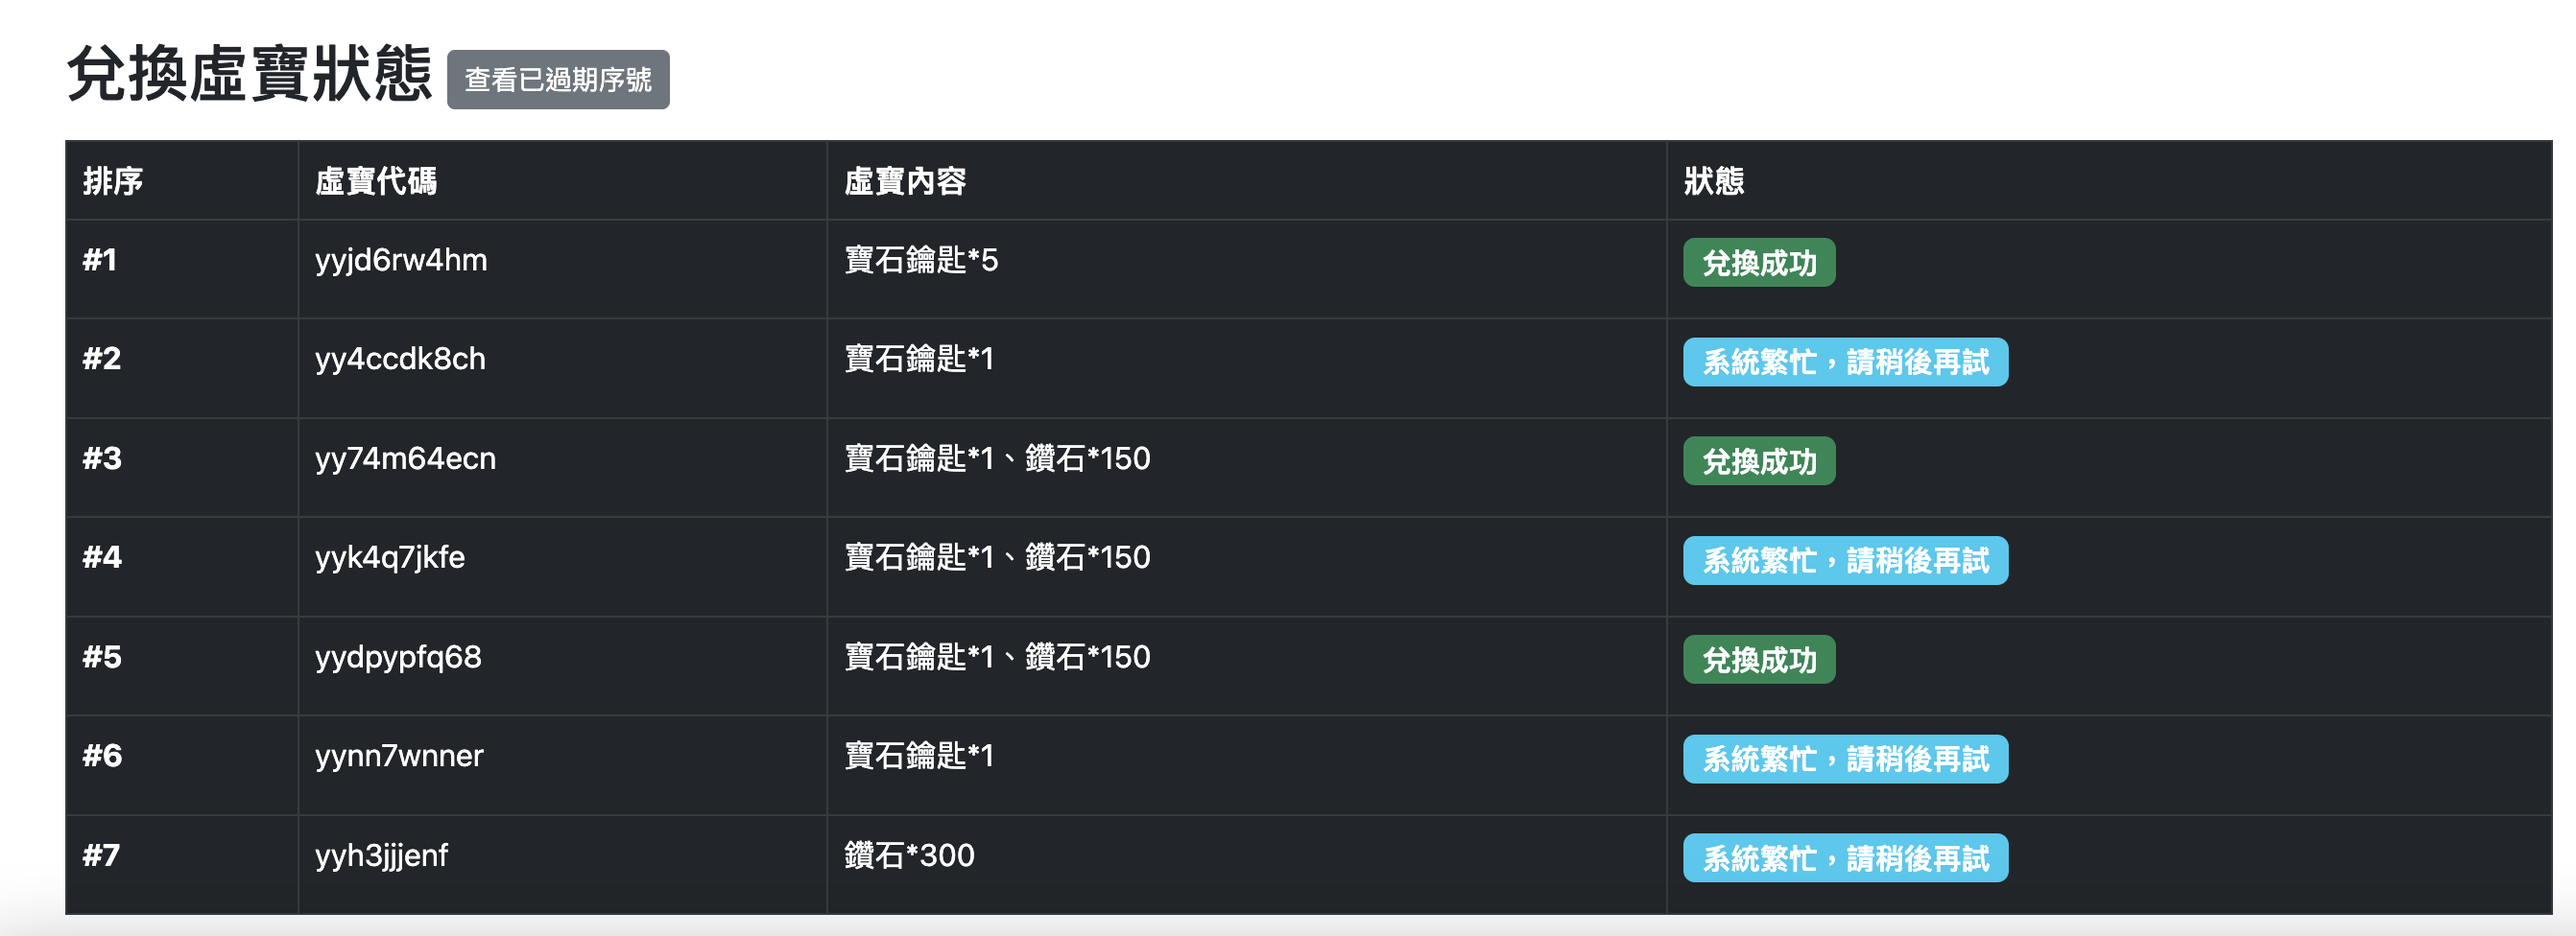
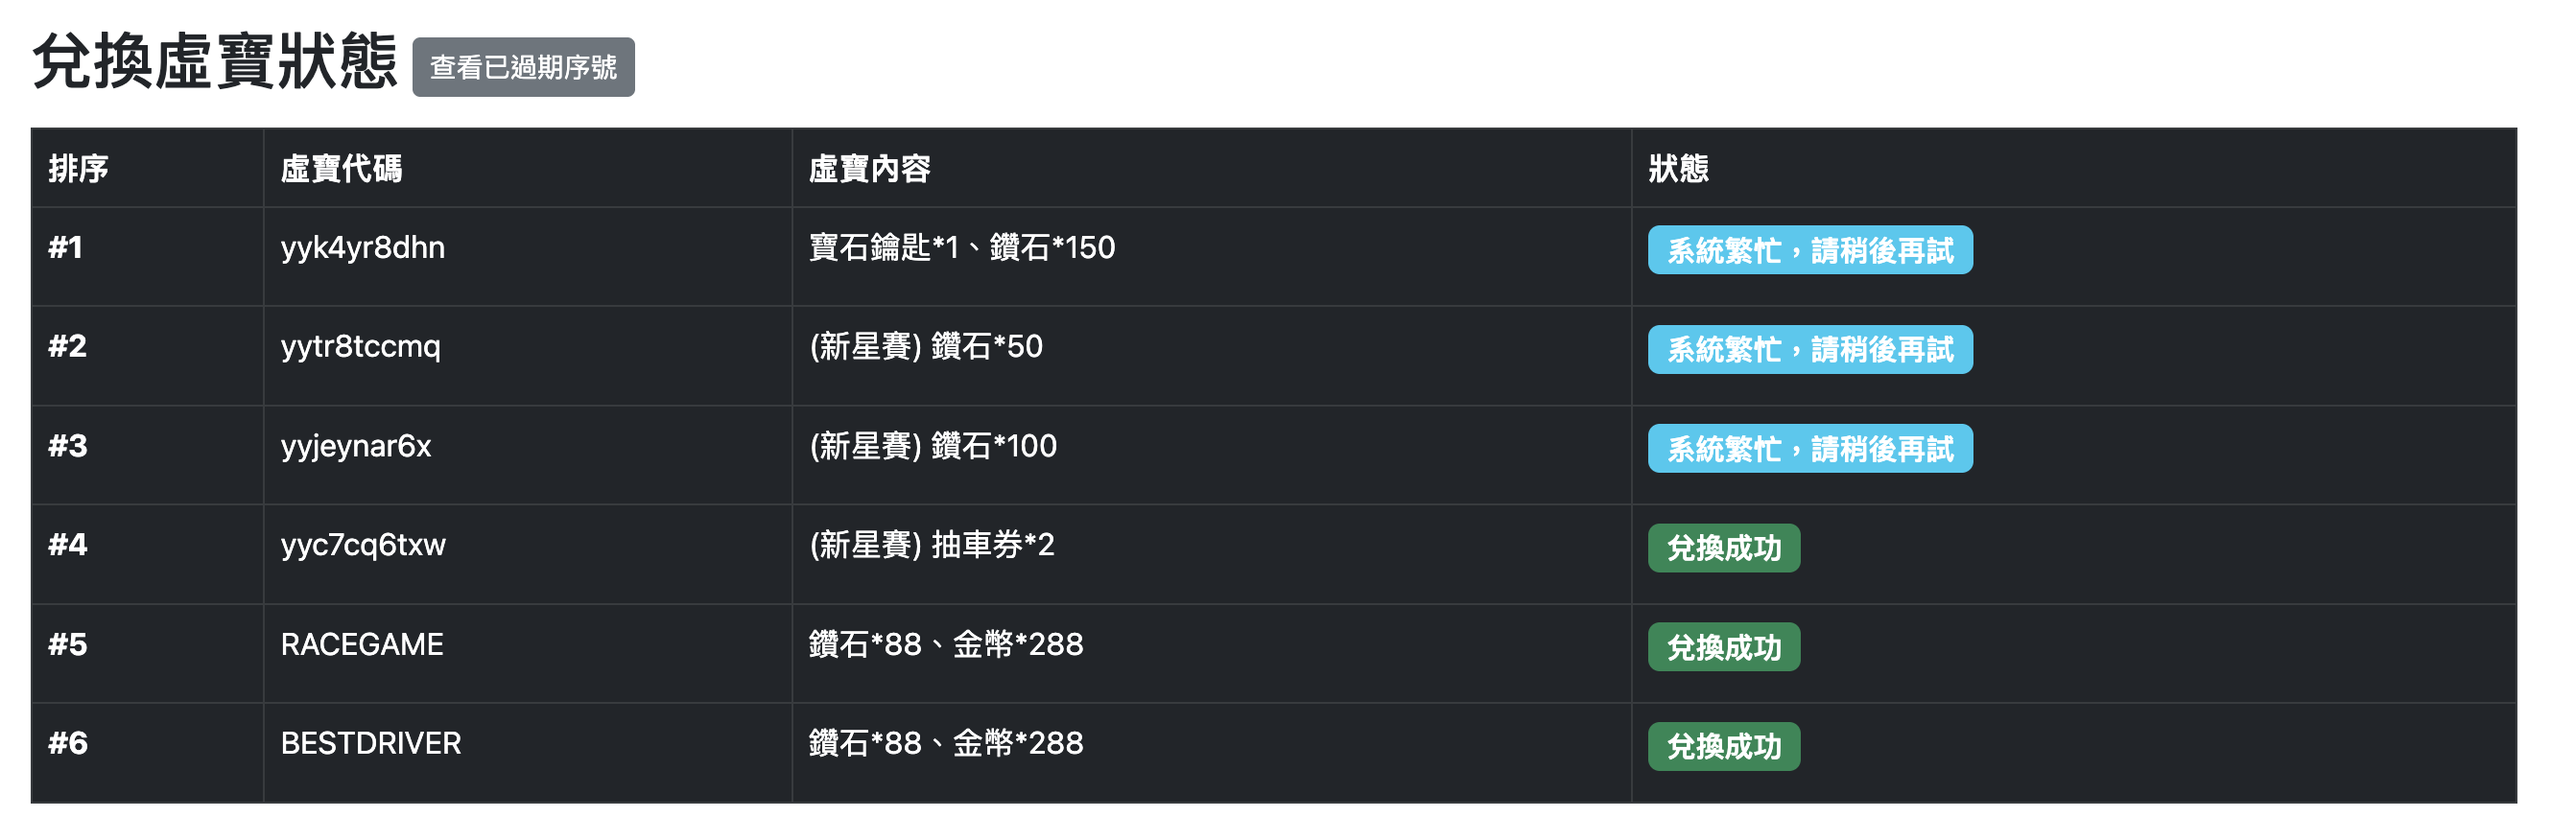
feat: 更新序號

diff --git a/src/redeem.php b/src/redeem.php
@@ -4,31 +4,21 @@ header('Content-Type: application/json');
 
 $uid = $_GET['uid'];
 $codes = array( //虛寶
-    "yyjd6rw4hm",
-    "yy4ccdk8ch",
-    "yy74m64ecn",
-    "yyk4q7jkfe",
-    "yydpypfq68",
-    "yynn7wnner",
-    "yyh3jjjenf",
     "yyk4yr8dhn",
     "yytr8tccmq",
     "yyjeynar6x",
-    "yyc7cq6txw"
+    "yyc7cq6txw",
+    "RACEGAME",
+    "BESTDRIVER"
 );
 
 $context = array( //虛寶內容
-    "寶石鑰匙*5",
-    "寶石鑰匙*1",
-    "寶石鑰匙*1、鑽石*150",
-    "寶石鑰匙*1、鑽石*150",
-    "寶石鑰匙*1、鑽石*150",
-    "寶石鑰匙*1",
-    "鑽石*300",
     "寶石鑰匙*1、鑽石*150",
     "(新星賽) 鑽石*50",
     "(新星賽) 鑽石*100",
-    "(新星賽) 抽車券*2"
+    "(新星賽) 抽車券*2",
+    "鑽石*88、金幣*288",
+    "鑽石*88、金幣*288"
 );
 
 $results = array();

diff --git a/src/index.php b/src/index.php
@@ -21,7 +21,7 @@
       <figure class="figure">
         <img src="icon.webp" class="figure-img img-fluid rounded" width="75" height="75">
       </figure>
-      &nbsp; 巔峰極速 兌換虛寶 v1.6
+      &nbsp; 巔峰極速 兌換虛寶 v1.7
     </h2>
 
     <br>
@@ -51,7 +51,7 @@
       </p>
 
       <hr>
-      虛寶最後更新時間：2025/05/18 11:50:40
+      虛寶最後更新時間：2025/08/03 15:57:02
       <hr>
 
       <p class="mb-0">
